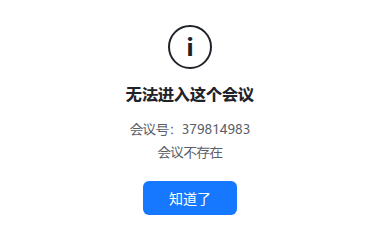
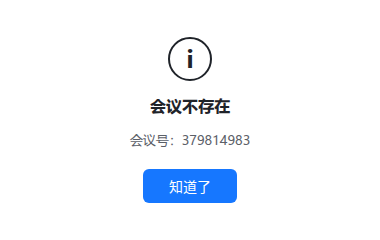
style: 提示窗改为「图标 + 原因标题 + 会议号 + 按钮」

Changed region(s): [[0.3184, 0.0875, 0.6658, 0.6708], [0.3763, 0.7, 0.6368, 0.9042]]

diff --git a/electron/main.js b/electron/main.js
@@ -960,23 +960,12 @@ function showNotice({ title, lines = [], okText = '知道了' }) {
   return noticeWin;
 }
 
-/** 会议不可入会时给个提示 */
+/** 会议不可入会时给个提示：标题就是具体原因，正文只留会议号 */
 function notifyMeetingUnavailable(confId, info) {
-  const d = info.detail || {};
-  const lines = [`会议号：${confId}`];
-  if (info.reason === 'ended' || info.reason === 'not-started') {
-    if (d.subject) lines.push(`主题：${d.subject}`);
-    if (d.startTime && d.endTime) lines.push(`时间：${d.startTime} ~ ${d.endTime}`);
-    if (info.reason === 'not-started' && d.startTime) lines.push(`开始时间：${d.startTime}`);
-  } else {
-    lines.push(info.text || '会议不存在、已结束，或当前账号无权查看');
-  }
-  showNotice({
-    title: info.reason === 'ended'
-      ? '这个会议已经结束了'
-      : (info.reason === 'not-started' ? '会议还没开始' : '无法进入这个会议'),
-    lines,
-  });
+  const title = info.reason === 'ended'
+    ? '会议已结束'
+    : (info.reason === 'not-started' ? '会议还没开始' : (info.text || '会议不存在'));
+  showNotice({ title, lines: [`会议号：${confId}`] });
 }
 
 async function resolveJoinName() {

diff --git a/electron/smoke.js b/electron/smoke.js
@@ -297,8 +297,8 @@ async function runSmoke(ctx, dir) {
   if (process.env.SMOKE_NOTICE) {
     await sleep(9000);
     ctx.showNotice({
-      title: '无法进入这个会议',
-      lines: ['会议号：379814983', '会议不存在'],
+      title: process.env.NOTICE_TITLE || '会议不存在',
+      lines: ['会议号：379814983'],
     });
     await sleep(2500);
     const nw = BrowserWindow.getAllWindows().find((w) => w !== win && w.webContents.getURL().startsWith('data:'));

diff --git a/README.md b/README.md
@@ -744,11 +744,13 @@ conferenceData: { subject, startTime, endTime, conferenceState, ... }
 原生 `dialog.showMessageBox` 在 Linux（GTK）下图标固定在左上角、没法居中，所以提示改用自绘窗口：
 
 ```js
-showNotice({ title: '无法进入这个会议', lines: ['会议号：379814983', '会议不存在'] });
+// 标题就是具体原因，正文只留会议号
+showNotice({ title: '会议不存在', lines: ['会议号：379814983'] });
 ```
 
 - 380×240 无边框、居中、置顶；
 - 图标（圆形 i）、标题、正文、按钮全部水平居中，整块垂直居中；
+- 标题直接用具体原因（`会议不存在` / `会议已结束` / `会议还没开始`），正文只有一行会议号；
 - 支持深色（跟随系统）、Esc/Enter 关闭、点击按钮关闭；
 - 登记为 helper 窗口，不会被 URL 白名单闸门遮住。
 
